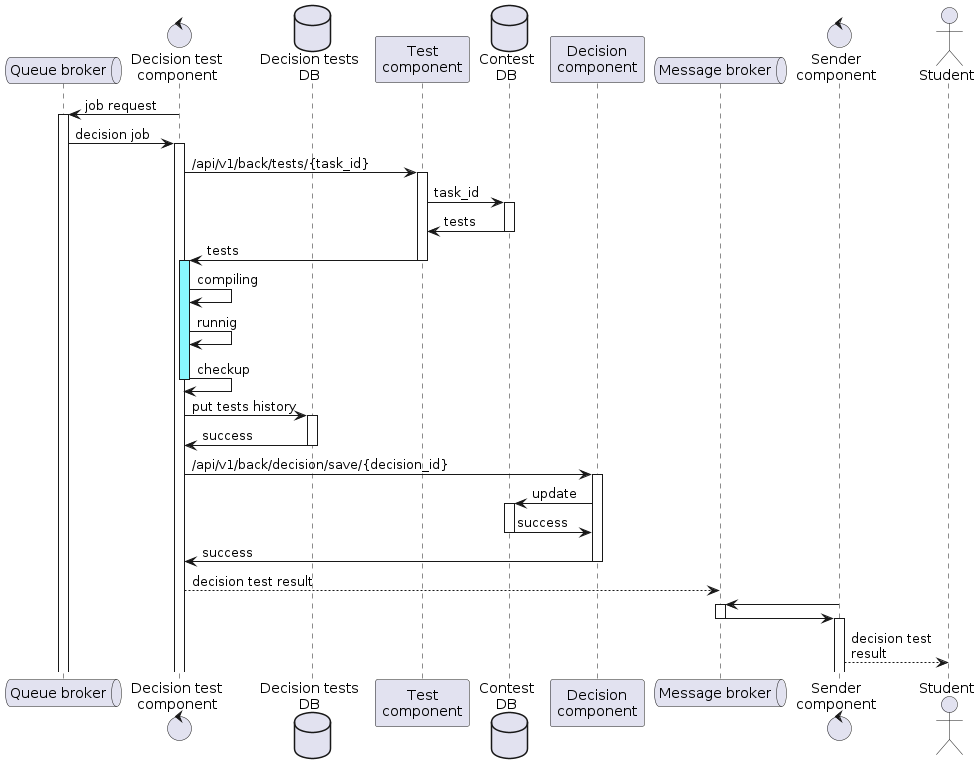
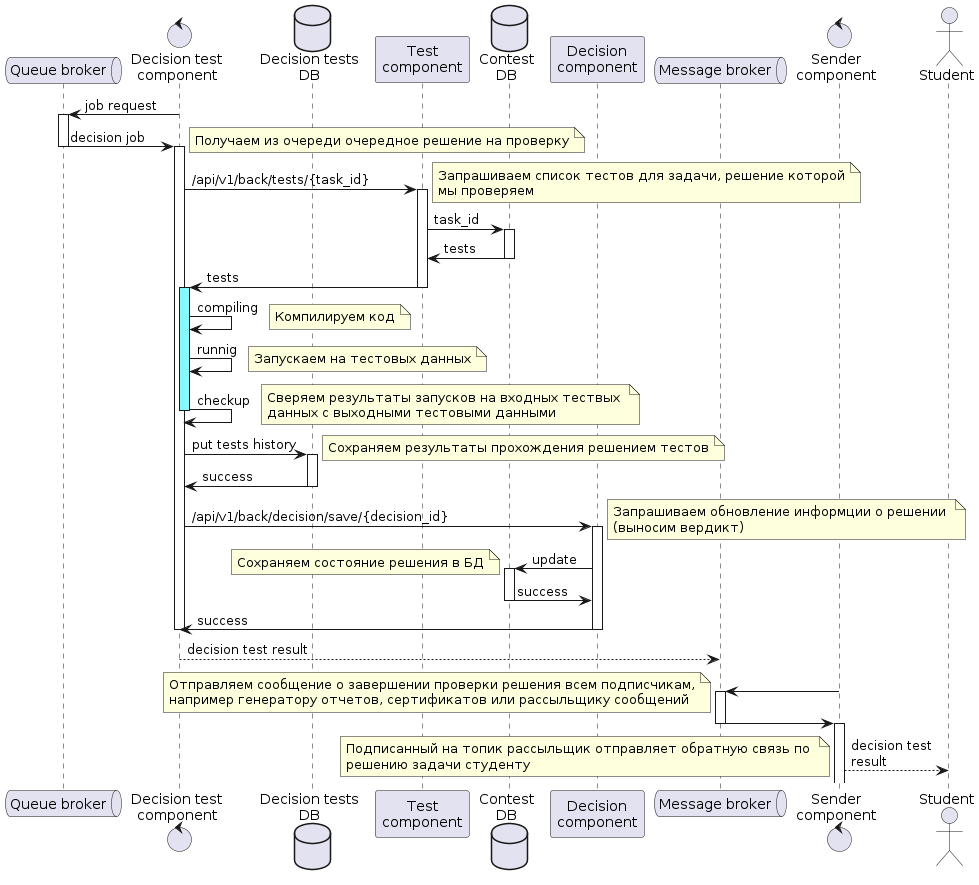
Пишем ADR-0003

diff --git a/docs/dicisions/ADR-0003/README.md b/docs/dicisions/ADR-0003/README.md
@@ -34,5 +34,36 @@
 ![](wsd/Sequence%20decition%20test.png)
 
 
+# 3. Оценка атрбутов качества
 
+Оценивать взаимодействие сервисов будем согласно 
+[атрибутам качества](../ADR-0001/README.md#атрибуты-качества) и 
+[критическим характеристиками](../ADR-0001/README.md#критические-характеристики)
+, описанными в [ADR-0001](../ADR-0001/README.md), которые касаются выбранных
+критических сценариев.
+
+## 3.1 Атрибуты качества
+
+### 3.1.1 Обратная связь от преподавателя студенту по предоставленному решению задачи должна даваться как можно быстрее
+
+### 3.1.2 Доступность отчета об успеваемости должна быть высокой 
+
+## 3.2 Критические характеристики
+
+### 3.2.1 Время реакции на решение. 
+
+Время ответа при отправке (от отправки до информации о том было ли решение 
+принято или произошел отказ) не должно превышать 5 секунд для решения объёмом 
+до 100 кБайт исходного кода при канале связи со студентом не хуже 1 МБит.
+
+### 3.2.2 Отказы принятия решений. 
+
+Количество отказов при приёме задач на проверку не должно превышать 0.1% в месяц
+
+### 3.2.3 Время проверки задачи. 
+
+Время проверки одной задачи от приёма решения до отправки обратной связи о 
+решении не должно превышать 5 минут.
+
+### 3.2.4 Ни одно решение и ни один результат проверки решения не должен быть потерян.
 
